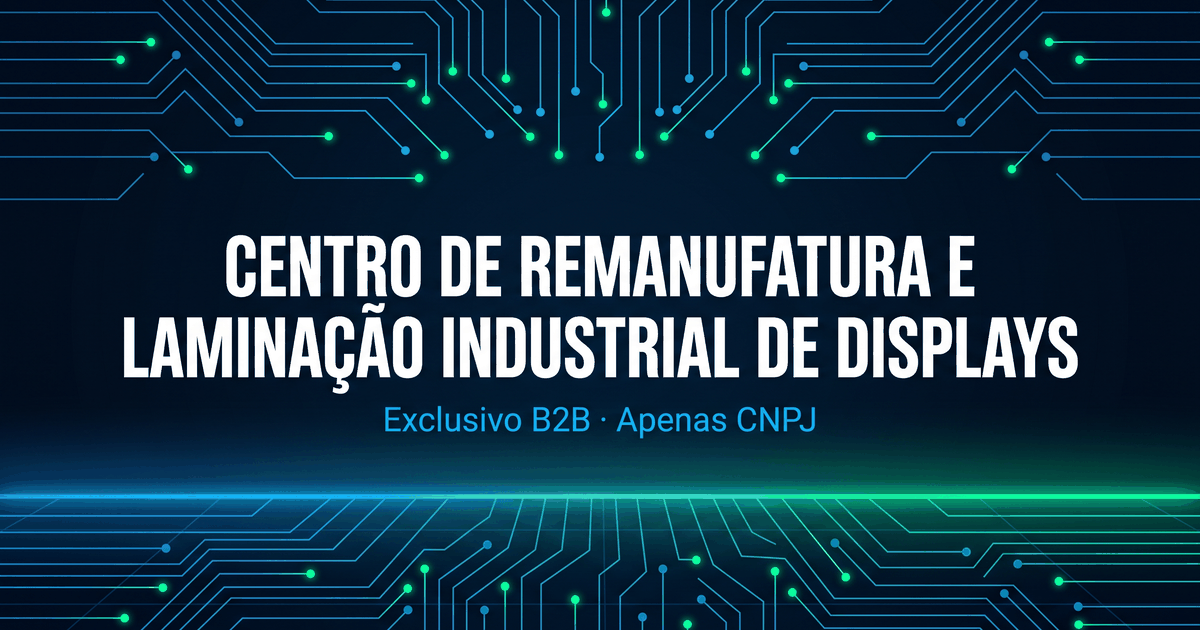
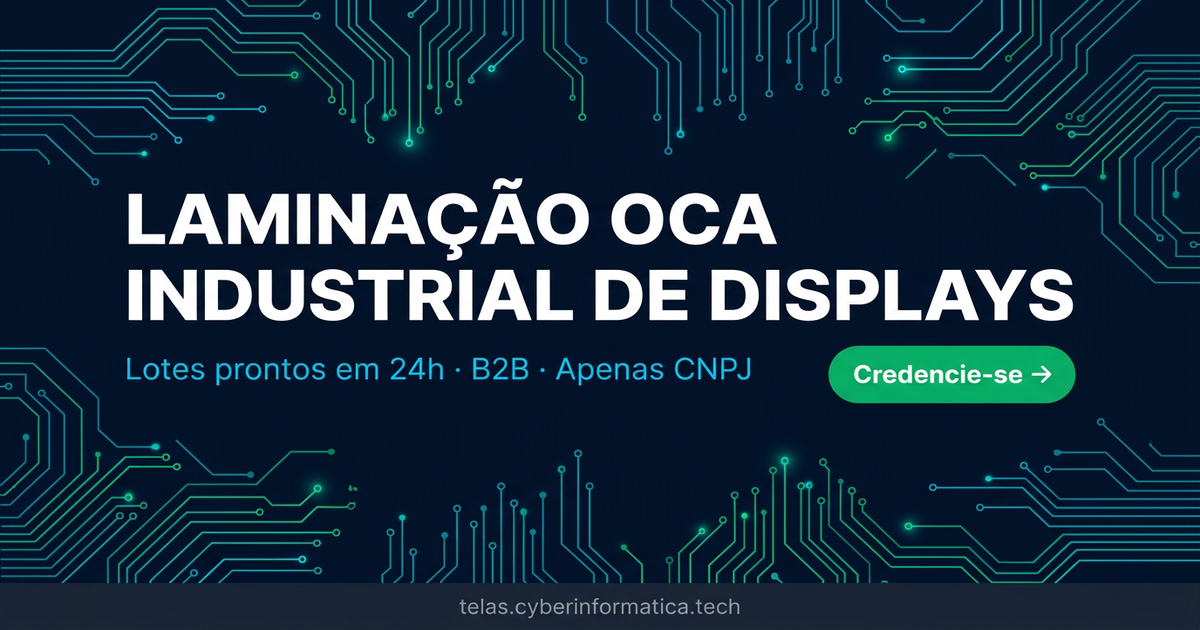
fix(og): shorten title+description, regenerate og-image with CTA pill
- title: 77→52 chars ('Laminação OCA Industrial de Displays · Cyber Informática')
- description: 153→97 chars (adds 'Lotes prontos em 24h' proof point)
- og-image: 1200x630, 798KB, adds 'Credencie-se →' green pill CTA

diff --git a/apps/telas/app/layout.tsx b/apps/telas/app/layout.tsx
@@ -28,9 +28,13 @@ const jetbrainsMono = JetBrains_Mono({
 
 const SITE_URL = 'https://telas.cyberinformatica.tech';
 const OG_IMAGE = `${SITE_URL}/og-image.png`;
-const TITLE = 'Cyber Informática | Centro de Remanufatura e Laminação Industrial de Displays';
+// ============================================
+// Meta tags otimizadas (alvos: title ≤60, description ≤125)
+// Anteriores: title 77, description 153 (truncavam em X/LinkedIn/mobile)
+// ============================================
+const TITLE = 'Laminação OCA Industrial de Displays · Cyber Informática';
 const DESCRIPTION =
-  'Centro de Remanufatura e Laminação Industrial de Displays. Exclusivo para Assistências Técnicas e Lojistas de Tecnologia. Faturamento Exclusivo via CNPJ.';
+  'Laminação OCA industrial B2B. Para assistências técnicas e lojistas. Apenas CNPJ. Lotes prontos em 24h.';
 
 export const metadata: Metadata = {
   metadataBase: new URL(SITE_URL),
